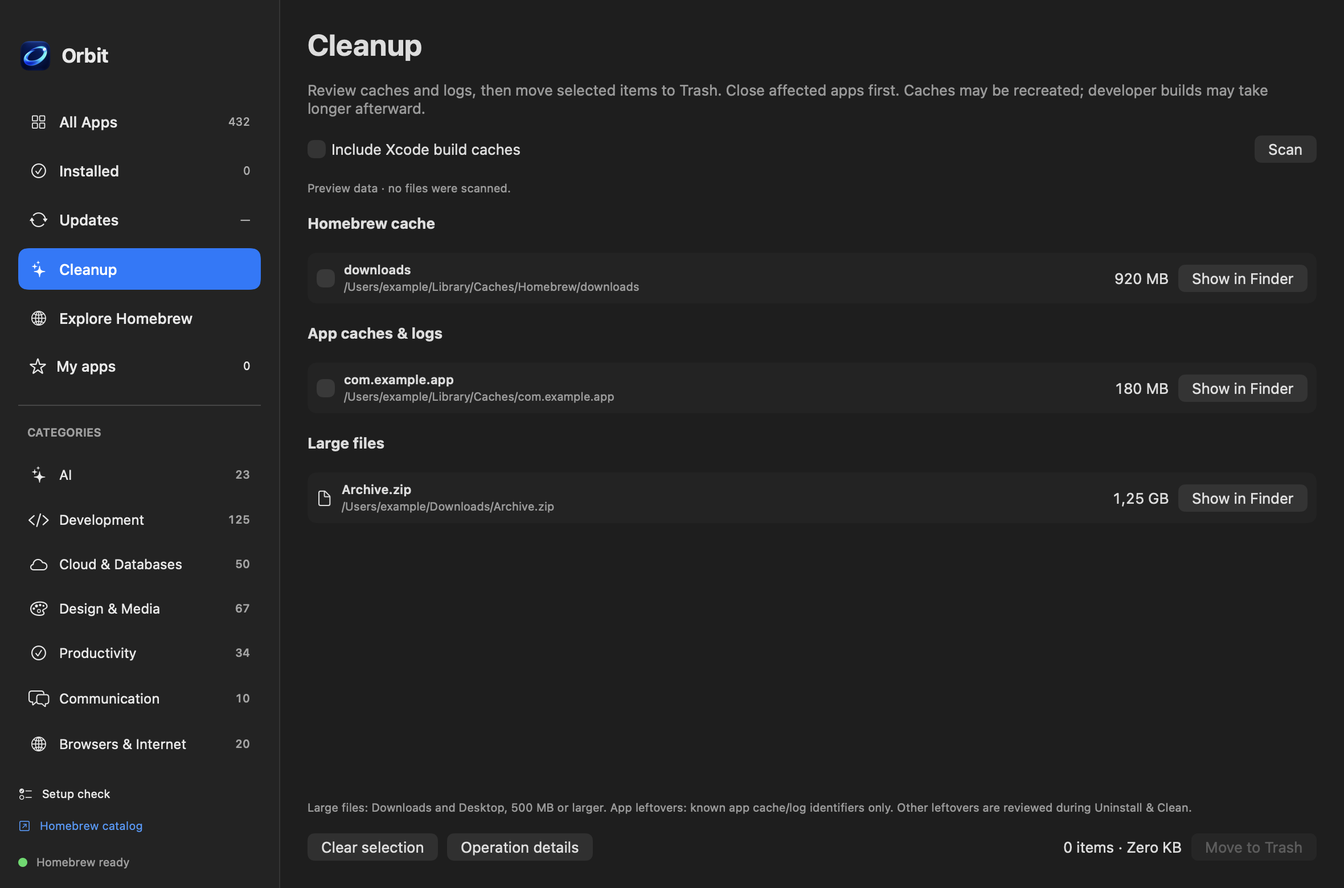
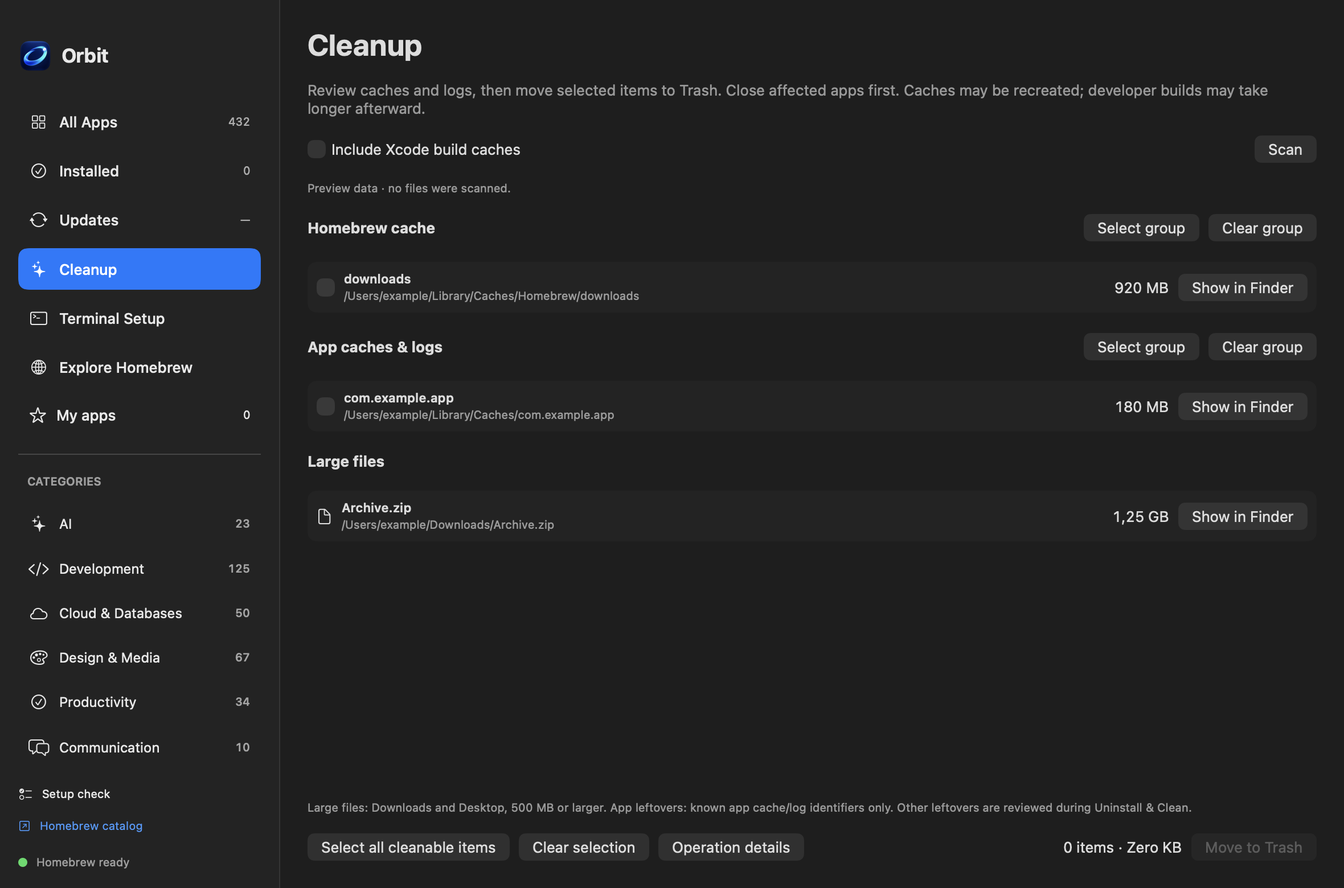
Clarify selection, cleanup and operation workflows (#15)

diff --git a/Sources/App.swift b/Sources/App.swift
@@ -81,7 +81,8 @@ struct ContentView: View {
                     }
                     Button("Select all") { store.selected.formUnion(store.visible.filter { store.uninstallMode || store.canInstall($0) }.map(\.id)) }
                     Button("Clear") { store.selected.subtract(store.visible.map(\.id)) }
-                }.font(.caption).buttonStyle(.borderless).padding(.horizontal, 24).padding(.vertical, 10).disabled(store.locked)
+                }.font(.callout).buttonStyle(.bordered).controlSize(.regular).padding(.horizontal, 24).padding(.vertical, 10).disabled(store.locked)
+                if store.category == "My apps" { Text("Favorites do not select apps for installation. Check an app to add it to To install; removing a favorite does not uninstall it.").font(.caption).foregroundStyle(.secondary).padding(.horizontal, 24) }
                 ScrollView {
                     LazyVStack(alignment: .leading, spacing: 22) {
                         if store.category == "All Apps" || store.category == "My apps" || !store.search.isEmpty {
@@ -105,7 +106,7 @@ struct ContentView: View {
                     VStack(spacing: 8) {
                         ProgressView(value: Double(store.completed), total: Double(max(store.total, 1)))
                         HStack {
-                            Text("\(store.completed) of \(store.total) completed").font(.caption).foregroundStyle(.secondary)
+                            Text(store.progressSummary).font(.caption).foregroundStyle(.secondary)
                             Spacer()
                             Button(store.stopRequested ? "Stopping after this app…" : "Stop after current app") { store.stopRequested = true }.disabled(store.stopRequested)
                         }
@@ -147,17 +148,7 @@ struct ContentView: View {
         .sheet(isPresented: $store.showUpdateReview) { UpdateReviewView(store: store) }
         .sheet(isPresented: $store.showRemovalReview) { RemovalReviewView(store: store) }
         .sheet(item: $store.detailPackage) { package in PackageDetailView(package: package, store: store) }
-        .sheet(isPresented: $store.showLog) {
-            VStack(alignment: .leading, spacing: 14) {
-                HStack {
-                    Text("Operation details").font(.title2.bold())
-                    Spacer()
-                    Button("Copy") { NSPasteboard.general.clearContents(); NSPasteboard.general.setString(store.output, forType: .string) }
-                    Button("Done") { store.showLog = false }.keyboardShortcut(.cancelAction)
-                }
-                ScrollView { Text(store.output.isEmpty ? "No operation has run yet." : store.output).font(.system(size: 11, design: .monospaced)).textSelection(.enabled).frame(maxWidth: .infinity, alignment: .leading) }
-            }.padding(24).frame(width: 780, height: 520)
-        }
+        .sheet(isPresented: $store.showLog) { OperationDetailsView(store: store) }
         .alert("Orbit", isPresented: Binding(get: { store.notice != nil }, set: { if !$0 { store.notice = nil } })) {
             Button("OK") { store.notice = nil }
         } message: { Text(store.notice ?? "") }
@@ -251,6 +242,7 @@ struct ContentView: View {
                     Spacer(minLength: 4)
                 }.contentShape(Rectangle())
             }.buttonStyle(.plain).help("View details for \(app.name)").accessibilityLabel("View details for \(app.name)")
+            if store.category == "My apps" && !store.uninstallMode { Button("Remove from My apps") { store.removeFavorite(app) }.controlSize(.regular).disabled(store.locked).help("Remove this favorite; keep installation selection and the installed app") }
             if !store.uninstallMode, !store.installed.contains(app.id), let local = store.localApps.first(where: { $0.package?.id == app.id }) {
                 Button("Manage with Homebrew") { store.navigate(.uninstall); store.manualTab = true; store.selectedManual = [local.id] }.controlSize(.small).disabled(store.locked)
             }
@@ -297,23 +289,6 @@ struct ContentView: View {
             Label(store.uninstallMode ? "Homebrew-managed apps in this catalog only. Removal requires confirmation." : "Some apps require sign-in or a paid license after installation.", systemImage: "info.circle").font(.caption).foregroundStyle(.secondary).padding(.vertical, 8)
             Text("Selections are saved on this Mac.").font(.caption2).foregroundStyle(.secondary)
         }.padding(22)
-    }
-}
-
-struct AppIcon: View {
-    let package: Package
-    @ObservedObject private var logos = LogoStore.shared
-    var localIcon: NSImage? {
-        guard let name = package.appName else { return nil }
-        for base in ["/Applications", NSHomeDirectory() + "/Applications"] {
-            let path = base + "/" + name + ".app"
-            if FileManager.default.fileExists(atPath: path) { return NSWorkspace.shared.icon(forFile: path) }
-        }
-        return nil
-    }
-    var body: some View {
-        if let icon = localIcon ?? logos.image(for: package) { Image(nsImage: icon).resizable().scaledToFit() }
-        else { Image(systemName: package.symbol).font(.system(size: 21)).foregroundStyle(Color.accentColor).frame(maxWidth: .infinity, maxHeight: .infinity).background(Color.accentColor.opacity(0.09)).clipShape(RoundedRectangle(cornerRadius: 8)) }
     }
 }
 
@@ -511,7 +486,7 @@ struct OrbitApp: App {
             if CommandLine.arguments.contains("--explore-preview") {
                 previewStore.navigate(.explore); previewStore.inventoryKnown = true; previewStore.appPresent = { _ in false }
                 previewStore.explorePackages = Array(Catalog.packages.filter { $0.installable }.prefix(15))
-                previewStore.exploreFetched = Date(); root = AnyView(ContentView(store: previewStore))
+                previewStore.showExploreSelection = true; previewStore.exploreFetched = Date(); root = AnyView(ContentView(store: previewStore))
             }
             if CommandLine.arguments.contains("--terminal-preview") {
                 previewStore.navigate(.terminal); previewStore.terminalState.scanned = true; previewStore.terminalState.selected.formUnion(["python", "node"]); previewStore.terminalState.message = "Demonstration data · no profiles were read or modified."; previewStore.terminalState.missing = ["uv"]; root = AnyView(ContentView(store: previewStore))
@@ -611,7 +586,10 @@ struct UpdatesView: View {
             Text("Apps without a numbered Homebrew version are excluded. Pinned packages are skipped. Close apps before updating.").font(.caption).foregroundStyle(.secondary)
             ScrollView {
                 if store.visibleUpdates.isEmpty {
-                    ContentUnavailableView(store.preparing ? "Checking Homebrew…" : !store.updates.isEmpty ? "No matching updates" : store.updatesChecked ? "No updates found" : "Check your installed apps", systemImage: "arrow.triangle.2.circlepath", description: Text("Choose Check for updates to refresh the Homebrew catalog."))
+                    VStack(spacing: 14) {
+                        if store.preparing { ProgressView(); Text("Checking installed apps…").font(.headline); Text("Refreshing Homebrew metadata and available updates.").foregroundStyle(.secondary) }
+                        else { ContentUnavailableView(!store.updates.isEmpty ? "No matching updates" : store.updatesChecked ? "No updates found" : "Check your installed apps", systemImage: "arrow.triangle.2.circlepath", description: Text(store.updatesChecked ? "Your current filter has no available updates." : "Choose Check for updates to refresh the Homebrew catalog.")) }
+                    }.frame(maxWidth: .infinity).frame(minHeight: 260)
                 }
                 ForEach(store.visibleUpdates) { item in
                     HStack {
@@ -630,12 +608,13 @@ struct UpdatesView: View {
             }
             if store.busy {
                 ProgressView(value: Double(store.completed), total: Double(max(store.total, 1)))
+                Text(store.progressSummary + " · " + store.headline).font(.caption).foregroundStyle(.secondary)
                 Button(store.stopRequested ? "Stopping after this update…" : "Stop after current app") { store.stopRequested = true }.disabled(store.stopRequested)
             }
             HStack {
                 Button("Operation details") { store.showLog = true }
-                Button("Select all") { store.selectedUpdates = Set(store.visibleUpdates.map(\.id)) }.disabled(store.locked)
-                Button("Clear") { store.selectedUpdates = [] }.disabled(store.locked)
+                Button("Select all") { store.selectedUpdates = Set(store.visibleUpdates.map(\.id)) }.buttonStyle(.bordered).disabled(store.locked)
+                Button("Clear") { store.selectedUpdates = [] }.buttonStyle(.bordered).disabled(store.locked)
                 Spacer()
                 Button("Update \(store.selectedUpdates.count) apps") { store.prepareUpdates() }.buttonStyle(.borderedProminent).disabled(store.selectedUpdates.isEmpty || store.locked || !store.startupReady)
             }
@@ -736,6 +715,7 @@ struct ManualAppsView: View {
             }
             if store.busy {
                 ProgressView(value: Double(store.completed), total: Double(max(store.total, 1)))
+                Text(store.progressSummary + " · " + store.headline).font(.caption).foregroundStyle(.secondary)
                 Button("Stop after current app") { store.stopRequested = true }.disabled(store.stopRequested)
             }
             HStack {

diff --git a/Sources/Maintenance.swift b/Sources/Maintenance.swift
@@ -97,7 +97,6 @@ enum MaintenanceScan {
     @Published var developer = false
     @Published var working = false
     @Published var scanned = false
-    @Published var showDetails = false
     @Published var confirm = false
     @Published var status = "Scan to review files. Nothing is selected automatically."
 }
@@ -123,14 +122,13 @@ struct MaintenanceView: View {
                 Spacer()
                 Button("Scan") { Task { await scan() } }.disabled(state.working || store.locked)
             }
-            if state.working { ProgressView() }
             Text(state.status).font(.caption).foregroundStyle(.secondary)
             ScrollView {
                 LazyVStack(alignment: .leading, spacing: 18) {
                     ForEach(MaintenanceScan.groups, id: \.self) { group in
                         let rows = state.items.filter { $0.group == group }
                         if !rows.isEmpty {
-                            Text(group).font(.headline)
+                            HStack { Text(group).font(.headline); Spacer(); if rows.contains(where: { $0.removable }) { Button("Select group") { state.selectCleanable(group: group) }.disabled(state.working); Button("Clear group") { state.clearGroup(group) }.disabled(state.working) } }
                             ForEach(rows) { item in
                                 HStack {
                                     if item.removable {
@@ -149,15 +147,17 @@ struct MaintenanceView: View {
                     if state.scanned && state.items.isEmpty { Text("No accessible cleanup candidates or large files found.").foregroundStyle(.secondary) }
                 }
             }
+            .overlay { if state.working { VStack(spacing: 12) { ProgressView(); Text("Scanning or moving reviewed files…").font(.headline) }.padding(24).background(.regularMaterial).clipShape(RoundedRectangle(cornerRadius: 12)).frame(maxWidth: .infinity, maxHeight: .infinity) } }
             Text("Large files: Downloads and Desktop, 500 MB or larger. App leftovers: known app cache/log identifiers only. Other leftovers are reviewed during Uninstall & Clean.").font(.caption).foregroundStyle(.secondary)
             HStack {
+                Button("Select all cleanable items") { state.selectCleanable() }.disabled(state.working || state.items.allSatisfy { !$0.removable })
                 Button("Clear selection") { state.selected = [] }.disabled(state.working)
-                Button("Operation details") { state.showDetails.toggle() }
+                Button("Operation details") { store.showLog = true }
                 Spacer()
                 Text("\(selection.count) items · " + ByteCountFormatter.string(fromByteCount: selection.reduce(0) { $0 + $1.bytes }, countStyle: .file))
                 Button("Move to Trash") { state.confirm = true }.buttonStyle(.borderedProminent).disabled(selection.isEmpty || state.working || store.locked)
             }
-            if state.showDetails { ScrollView { Text(store.output.isEmpty ? "No cleanup operation has run yet." : store.output).font(.system(size: 11, design: .monospaced)).textSelection(.enabled).frame(maxWidth: .infinity, alignment: .leading) }.frame(height: 120) }
+
         }.padding(24).frame(maxWidth: .infinity, maxHeight: .infinity).background(Color(nsColor: .windowBackgroundColor))
         .alert("Move selected files to Trash?", isPresented: $state.confirm) {
             Button("Cancel", role: .cancel) {}
@@ -165,7 +165,7 @@ struct MaintenanceView: View {
         } message: { Text("\(selection.count) reviewed items will be moved to Trash. Only paths whose filesystem identity still matches the scan will be processed.") }
     }
     func scan() async {
-        guard !store.preview else { return }
+        guard !store.preview, !state.working, !store.locked else { return }
         state.working = true; state.selected = []; store.preparing = true
         defer { state.working = false; store.preparing = false }
         let installed = store.installed

diff --git a/Sources/WorkflowUI.swift b/Sources/WorkflowUI.swift
@@ -1,0 +1,54 @@
+import SwiftUI
+import AppKit
+
+struct OperationResult: Identifiable {
+    let id: String, name: String, status: String
+}
+extension Store {
+    var progressSummary: String { "\(min(completed, total))/\(total) processed · \(max(total - completed, 0)) remaining" }
+    var operationResults: [OperationResult] {
+        statuses.map { key, value in OperationResult(id: key, name: packages.first { $0.id == key }?.name ?? key, status: value) }.sorted {
+            if ($0.status == "Failed") != ($1.status == "Failed") { return $0.status == "Failed" }
+            return $0.name.localizedCaseInsensitiveCompare($1.name) == .orderedAscending
+        }
+    }
+    var operationIssues: [String] {
+        var seen = Set<String>()
+        return output.components(separatedBy: .newlines).map { $0.trimmingCharacters(in: .whitespaces) }.filter {
+            let text = $0.lowercased()
+            return (text.contains("error:") || text.contains("failed:") || text.contains("permission denied") || (text.hasPrefix("exit status:") && text != "exit status: 0")) && seen.insert($0).inserted
+        }.suffix(8).map { $0 }
+    }
+}
+extension MaintenanceState {
+    func selectCleanable(group: String? = nil) {
+        guard !working else { return }
+        selected.formUnion(items.filter { $0.removable && (group == nil || $0.group == group) }.map(\.id))
+    }
+    func clearGroup(_ group: String) {
+        guard !working else { return }; selected.subtract(items.filter { $0.group == group }.map(\.id))
+    }
+}
+struct OperationDetailsView: View {
+    @ObservedObject var store: Store
+    var body: some View {
+        VStack(alignment: .leading, spacing: 16) {
+            HStack { Text("Operation details").font(.title2.bold()); Spacer(); Button("Done") { store.showLog = false }.keyboardShortcut(.cancelAction) }
+            ScrollView {
+                VStack(alignment: .leading, spacing: 12) {
+                    if store.busy && !store.maintenanceState.working { Text(store.progressSummary).font(.headline); Text(store.headline).foregroundStyle(.secondary) }
+                    if store.operationResults.isEmpty { Text("No package operation results yet.").foregroundStyle(.secondary) }
+                    ForEach(store.operationResults) { result in HStack { Text(result.name); Spacer(); Text(result.status).foregroundStyle(result.status == "Failed" ? .red : .secondary) }.padding(.vertical, 3) }
+                    if store.maintenanceState.scanned { Divider(); Text("Cleanup").font(.headline); Text(store.maintenanceState.status) }
+                    if !store.operationIssues.isEmpty { Divider(); Text("Errors and diagnostics").font(.headline); ForEach(store.operationIssues, id: \.self) { Text($0).font(.callout).foregroundStyle(.red).textSelection(.enabled) } }
+                    DisclosureGroup("Technical log", isExpanded: $store.showTechnicalLog) {
+                        VStack(alignment: .leading, spacing: 10) {
+                            Button("Copy technical log") { NSPasteboard.general.clearContents(); NSPasteboard.general.setString(store.output, forType: .string) }.disabled(store.output.isEmpty)
+                            Text(store.output.isEmpty ? "No technical output recorded." : store.output).font(.system(size: 11, design: .monospaced)).textSelection(.enabled).frame(maxWidth: .infinity, alignment: .leading)
+                        }.padding(.top, 8)
+                    }.padding(.top, 8)
+                }.frame(maxWidth: .infinity, alignment: .leading)
+            }
+        }.padding(24).onAppear { store.showTechnicalLog = false }.frame(width: 780, height: 520)
+    }
+}

diff --git a/WorkflowUITests.swift b/WorkflowUITests.swift
@@ -1,0 +1,39 @@
+import Foundation
+
+final class WorkflowLogCapture: @unchecked Sendable {
+    private let lock = NSLock()
+    private var lines: [String] = []
+    func append(_ value: String) { lock.lock(); defer { lock.unlock() }; lines.append(value) }
+    func text() -> String { lock.lock(); defer { lock.unlock() }; return lines.joined() }
+}
+@MainActor enum WorkflowUITests {
+    static func run() async throws {
+        let cleanup = MaintenanceState()
+        let cache = MaintenanceItem(path:"/fixture/cache",group:"Homebrew cache",bytes:1,inode:1,device:1,removable:true)
+        let app = MaintenanceItem(path:"/fixture/app",group:"App caches & logs",bytes:1,inode:1,device:1,removable:true)
+        let large = MaintenanceItem(path:"/fixture/document",group:"Large files",bytes:1,inode:1,device:1,removable:false)
+        cleanup.items = [cache,app,large]
+        cleanup.selectCleanable(group:"Homebrew cache"); precondition(cleanup.selected == [cache.id])
+        cleanup.selectCleanable(); precondition(cleanup.selected == [cache.id,app.id] && !cleanup.selected.contains(large.id))
+        cleanup.clearGroup("Homebrew cache"); precondition(cleanup.selected == [app.id])
+        cleanup.working = true; cleanup.selectCleanable(); cleanup.clearGroup("App caches & logs"); precondition(cleanup.selected == [app.id])
+        let model = Store(persistSelection:false); model.selected = []; model.inventoryKnown = true; model.appPresent = { _ in false }
+        let dynamic = try OfficialCatalog.parse(Data(#"[{"token":"workflow-fixture","tap":"homebrew/cask","name":["Workflow Fixture"],"homepage":"https://example.com","version":"1"}]"#.utf8),cask:true)[0]
+        model.navigate(.explore); model.toggle(dynamic)
+        precondition(model.installSelection.map(\.id) == [dynamic.id])
+        model.registerPersonal(dynamic,favorite:true); model.removeFavorite(dynamic)
+        precondition(!model.myAppIDs.contains(dynamic.id) && model.selected.contains(dynamic.id), "Removing a favorite must not alter installation selection or uninstall")
+        model.toggle(dynamic); precondition(model.installSelection.isEmpty)
+        model.total = 4; model.completed = 2
+        precondition(model.progressSummary == "2/4 processed · 2 remaining")
+        model.statuses = [dynamic.id:"Failed"]
+        precondition(model.operationResults.first?.name == dynamic.name && model.operationResults.first?.status == "Failed")
+        model.output = "Error: fixture failed\nError: fixture failed\nExit status: 0\nExit status: 1\n"
+        precondition(model.operationIssues == ["Error: fixture failed","Exit status: 1"])
+        let capture = WorkflowLogCapture()
+        let reply = await BrewRunner.run("/bin/sh",["-c","printf '{\"fixture\":true}'; printf 'fixture warning\\n' >&2"],separateError:true,log:{ capture.append($0) })
+        precondition(reply.0 == 0 && reply.1 == "{\"fixture\":true}")
+        precondition(capture.text().contains("fixture warning") && !capture.text().contains("fixture\""), "Inventory and metadata stdout must not pollute logs; stderr must remain visible")
+        print("PASS: safe cleanup bulk selection, Explore toggle and favorites, shared selection, aggregate progress, result/error summaries and diagnostic-only metadata logging")
+    }
+}

diff --git a/Sources/Explore.swift b/Sources/Explore.swift
@@ -121,7 +121,8 @@ struct ExploreView: View {
                 LazyVStack(spacing:0) {
                     ForEach(Array(matches.prefix(150))) { package in
                         HStack(spacing:12) {
-                            Image(systemName:package.cask ? "app" : "terminal").font(.title2).frame(width:32)
+                            Toggle("Select " + package.name, isOn: Binding(get: { store.selected.contains(package.id) }, set: { _ in store.toggle(package) })).labelsHidden().toggleStyle(.checkbox).disabled(store.locked || !store.canInstall(package)).accessibilityLabel("Select " + package.name)
+                            AppIcon(package: package).frame(width: 32, height: 32)
                             Button { store.detailPackage = package } label: {
                                 VStack(alignment:.leading,spacing:4) { Text(package.name).font(.headline); Text(package.detail).font(.caption).foregroundStyle(.secondary).lineLimit(2); Text("\(package.cask ? "App" : "CLI") · \(package.token) · \(package.version ?? "Unknown version")").font(.caption).foregroundStyle(.secondary) }.frame(maxWidth:.infinity,alignment:.leading)
                             }.buttonStyle(.plain)
@@ -137,9 +138,17 @@ struct ExploreView: View {
                     if matches.isEmpty && !store.loadingExplore { ContentUnavailableView("No packages found",systemImage:"magnifyingglass",description:Text(store.explorePackages.isEmpty ? "Refresh the catalog to browse official Homebrew apps and tools." : "Try a different search or package filter.")) }
                 }
             }
+            DisclosureGroup("Selected apps · \(store.installSelection.count)", isExpanded: $store.showExploreSelection) {
+                ScrollView {
+                    VStack(alignment: .leading, spacing: 8) {
+                        if store.installSelection.isEmpty { Text("Check apps above to build your installation selection.").foregroundStyle(.secondary) }
+                        ForEach(store.installSelection) { package in HStack { Text(package.name); Spacer(); Button("Remove") { store.toggle(package) }.disabled(store.locked) } }
+                    }.padding(.vertical, 8)
+                }.frame(maxHeight: 140)
+            }
             if store.busy {
                 ProgressView(value:Double(store.completed),total:Double(max(store.total,1)))
-                HStack { Text(store.headline).font(.caption).foregroundStyle(.secondary); Spacer(); Button(store.stopRequested ? "Stopping after this app…" : "Stop after current app") { store.stopRequested = true }.disabled(store.stopRequested) }
+                HStack { Text(store.progressSummary + " · " + store.headline).font(.caption).foregroundStyle(.secondary); Spacer(); Button(store.stopRequested ? "Stopping after this app…" : "Stop after current app") { store.stopRequested = true }.disabled(store.stopRequested) }
             }
             HStack {
                 Button("Operation details") { store.showLog = true }

diff --git a/Sources/Store.swift b/Sources/Store.swift
@@ -57,7 +57,7 @@ enum BrewRunner {
                     let chunk = pipe.fileHandleForReading.availableData
                     if chunk.isEmpty { break }
                     data.append(chunk)
-                    log(String(decoding: chunk, as: UTF8.self))
+                    if !separateError { log(String(decoding: chunk, as: UTF8.self)) }
                 }
                 process.waitUntilExit()
                 if separateError, let diagnostics = try? Data(contentsOf: errorURL), !diagnostics.isEmpty {
@@ -109,6 +109,8 @@ struct SystemCommands: CommandExecuting {
     @Published var exploreFetched: Date?
     @Published var exploreMessage = ""
     @Published var loadingExplore = false
+    @Published var showExploreSelection = false
+    @Published var showTechnicalLog = false
     var exploreLoader: @Sendable () async throws -> ExploreSnapshot = { try await OfficialCatalog.fetchAll() }
     @Published var personalPackages = [Package]() { didSet { if personalPersistence { preferences.set(try? JSONEncoder().encode(personalPackages), forKey: "personal-packages-v1") } } }
     @Published var myAppIDs = Set<String>() { didSet { if personalPersistence { preferences.set(Array(myAppIDs), forKey: "my-apps-v1") } } }

diff --git a/Sources/Logos.swift b/Sources/Logos.swift
@@ -87,3 +87,20 @@ struct OrbitBrandIcon: View {
         }.frame(width: size, height: size).accessibilityLabel("Orbit logo")
     }
 }
+
+struct AppIcon: View {
+    let package: Package
+    @ObservedObject private var logos = LogoStore.shared
+    var localIcon: NSImage? {
+        guard let name = package.appName else { return nil }
+        for base in ["/Applications", NSHomeDirectory() + "/Applications"] {
+            let path = base + "/" + name + ".app"
+            if FileManager.default.fileExists(atPath: path) { return NSWorkspace.shared.icon(forFile: path) }
+        }
+        return nil
+    }
+    var body: some View {
+        if let icon = localIcon ?? logos.image(for: package) { Image(nsImage: icon).resizable().scaledToFit() }
+        else { Image(systemName: package.symbol).font(.system(size: 21)).foregroundStyle(Color.accentColor).frame(maxWidth: .infinity, maxHeight: .infinity).background(Color.accentColor.opacity(0.09)).clipShape(RoundedRectangle(cornerRadius: 8)) }
+    }
+}

diff --git a/Sources/Lifecycle.swift b/Sources/Lifecycle.swift
@@ -155,6 +155,7 @@ enum Cleanup {
         showUpdateReview = false; busy = true; stopRequested = false; completed = 0; total = queue.count; statuses = [:]
         defer { busy = false }
         var failures = 0
+        for item in queue { statuses[item.id] = "Waiting" }
         for item in queue {
             if stopRequested { break }
             headline = "Updating \(item.package.name)…"; statuses[item.id] = "Updating"
@@ -168,6 +169,7 @@ enum Cleanup {
             else { statuses[item.id] = "Failed"; failures += 1 }
             completed += 1
         }
+        for item in queue where statuses[item.id] == "Waiting" { statuses[item.id] = "Skipped" }
         headline = stopRequested ? "Stopped after the current update." : failures == 0 ? "Selected updates completed. Check again for the latest status." : "Finished with \(failures) failed updates. Open Operation details."
         await refresh()
     }

diff --git a/Tests.swift b/Tests.swift
@@ -15,6 +15,7 @@ import Foundation
         precondition(separated.0 == 0 && (try! UpdatePlan.parse(Data(separated.1.utf8))).isEmpty, "Diagnostics must not contaminate JSON")
         let stderrFlood = await BrewRunner.run("/bin/sh", ["-c", "head -c 200000 /dev/zero >&2; printf '{\"formulae\":[],\"casks\":[]}'"], separateError: true)
         precondition(stderrFlood.0 == 0 && (try! UpdatePlan.parse(Data(stderrFlood.1.utf8))).isEmpty, "Large stderr must not deadlock or contaminate JSON")
+        try! await WorkflowUITests.run()
         try! await TerminalSetupTests.run()
         let model = Store(persistSelection: false)
         model.inventoryKnown = true; model.appPresent = { _ in false }; model.appScanner = { [] }

diff --git a/docs/FEATURES.md b/docs/FEATURES.md
@@ -94,7 +94,7 @@ Run `python3 Scripts/update_app_logos.py` to rediscover icons from official home
 
 **Updates** refreshes Homebrew metadata, lists installed outdated packages in this curated catalog with current/available versions, and upgrades only the checked list after a separate review. Self-updating casks are opt-in; unversioned `latest` casks and pinned packages are excluded. Where an app bundle exposes its actual version, that version is checked when planning and again before upgrade so newer self-updated apps are skipped. This is a conservative numeric comparison, not a universal vendor-version parser. Homebrew may update or repair dependencies as part of an upgrade. Failures remain in Operation details, and stopping waits for the current operation. Searches filter the update list.
 
-Orbit's own **Check app release** checks GitHub's latest release endpoint and links to the release page for manual download. The private repository is unavailable to anonymous API requests; the app explains this and offers the browser page where the user can sign in. It does not collect GitHub credentials or automatically replace the running app. Orbit v0.13.0 is distributed as a DMG through this private repository’s Releases. Access requires repository permission.
+Orbit's own **Check app release** checks GitHub's latest release endpoint and links to the release page for manual download. The private repository is unavailable to anonymous API requests; the app explains this and offers the browser page where the user can sign in. It does not collect GitHub credentials or automatically replace the running app. Orbit v0.14.0 is distributed as a DMG through this private repository’s Releases. Access requires repository permission.
 
 **Uninstall & Clean** scans existing application bundle identifiers before removal. It reviews matching caches, logs, preferences, support folders, saved state, containers, HTTP storage, WebKit data, scripts, and cookies under the current user's Library. A small reviewed mapping adds app-specific paths for Chrome, VS Code, Blender, and Slack from the official Homebrew cask definitions. Shared group containers, vendor-wide folders, wildcard matches, system locations, and unrelated files are excluded; formulas have no guessed data cleanup. Cache/log entries are initially checked; settings and possible user data are unchecked. The user sees every path and its estimated size and can change the selection.
 
@@ -183,3 +183,11 @@ Missing tools are verified through official Homebrew metadata, registered only a
 Validation covers temporary-profile preservation, repeat apply, option replacement, private backup permissions, restore, absent profiles, changed files, symlink/hardlink rejection, custom directories, malformed markers, syntax failures and nonexecution of user shell code. Mocked metadata checks cover package selection without installer execution, offline all-or-nothing registration, and changing installation state. Tests never alter the user's real profiles.
 
 References: [Homebrew shell completion](https://docs.brew.sh/Shell-Completion), [NVM](https://github.com/nvm-sh/nvm), [uv](https://docs.astral.sh/uv/getting-started/installation/), [Starship](https://starship.rs/guide/), [fzf](https://github.com/junegunn/fzf), [Rustup formula](https://formulae.brew.sh/formula/rustup).
+
+## Workflow clarity (v0.14)
+
+Explore Homebrew has actual installation checkboxes separate from app icons and an expandable Selected apps list with removal controls. It shares the existing install selection and review. My apps exposes Remove from My apps directly in each row; removing a favorite does not uninstall or alter installation selection. A short explanation distinguishes favorites from installation choices.
+
+Cleanup supports explicit group selection, group clearing, and Select all cleanable items. Only removable scanned entries enter bulk selection; large personal files remain discovery-only. No default selection or deletion scope changes were made. Final confirmation and filesystem checks still apply. The scanning/Trash loader is centered within the results area. Updates displays a centered loading state with current guidance, and batch progress describes processed items and remaining items rather than pretending to know each package's byte-level percentage. Update queues mark waiting items and mark untouched items skipped when stopped.
+
+Operation details now opens a common summary with package outcomes and detected errors; the technical log is separately expandable and copyable. Successful inventory/API stdout no longer clutters the log, while stderr diagnostics and installer output are retained. Select all/Clear controls are visibly bordered. Tests cover safe bulk selection, shared dynamic selection and favorite removal, aggregate progress, result/error summaries, and diagnostic-only metadata logging.

diff --git a/README.md b/README.md
@@ -29,7 +29,7 @@ Search official Homebrew formulas and casks by name or description. **Add to My 
 
 ## Review cleanup before changing anything
 
-Cleanup has its own page in the main window. Scan supported locations, inspect paths and estimated sizes, then choose what to move to Trash. Nothing is selected by default. Large files in Downloads and Desktop can be revealed in Finder for your own review.
+Cleanup has its own page in the main window. Scan supported locations, inspect paths and estimated sizes, then choose what to move to Trash. Nothing is selected by default. Select a group or all cleanable items explicitly; personal large files remain outside bulk cleanup. Large files in Downloads and Desktop can be revealed in Finder for your own review.
 
 ![Cleanup page with cache groups, estimated sizes, and a reviewed Trash action](docs/images/cleanup.png)
 
@@ -49,7 +49,7 @@ Scan your existing Zsh profiles, review Orbit's proposed blocks, then apply. Exi
 
 Requires **macOS 14 or later**. Homebrew must be installed to perform package operations; the first-launch setup check links to the official setup guide when it is missing. You can browse before completing setup.
 
-**[Download Orbit for Apple Silicon (.dmg)](https://github.com/CNRNYK/orbit/releases/download/v0.13.0/Orbit-0.13.0-macOS-arm64.dmg)** · [Release notes](https://github.com/CNRNYK/orbit/releases/tag/v0.13.0)
+**[Download Orbit for Apple Silicon (.dmg)](https://github.com/CNRNYK/orbit/releases/download/v0.14.0/Orbit-0.14.0-macOS-arm64.dmg)** · [Release notes](https://github.com/CNRNYK/orbit/releases/tag/v0.14.0)
 
 Open the DMG and drag **Orbit.app** to **Applications**. Downloads require access to this private repository. This release is ad-hoc signed and has not been notarized, so macOS may require approval in Privacy & Security. Only approve a download you trust.
 
